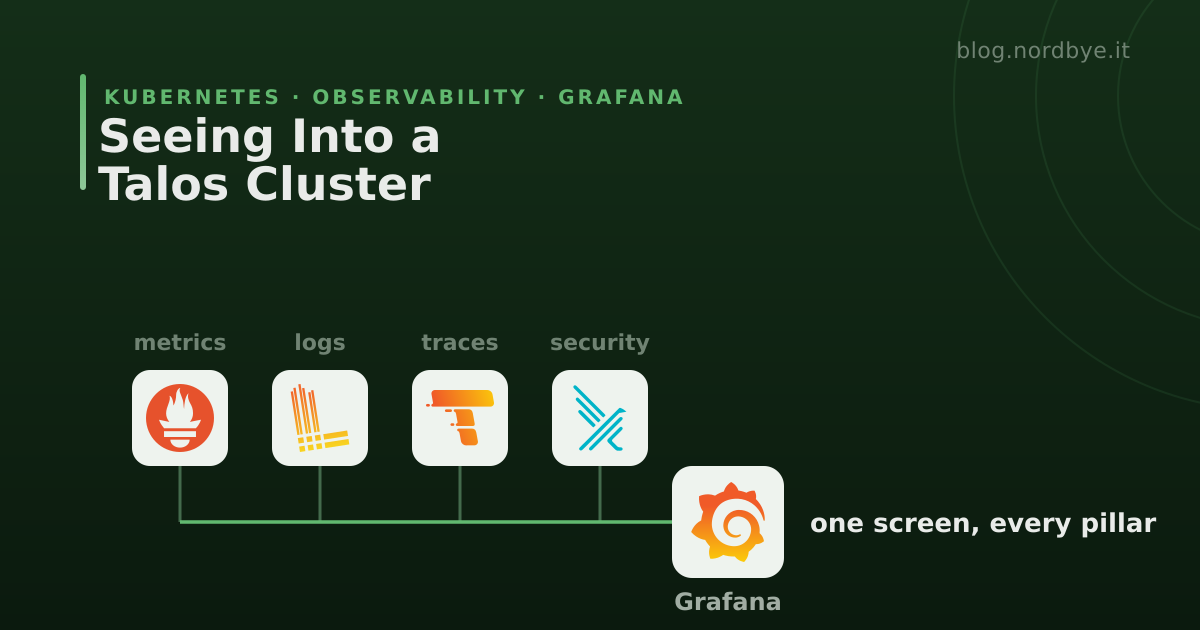
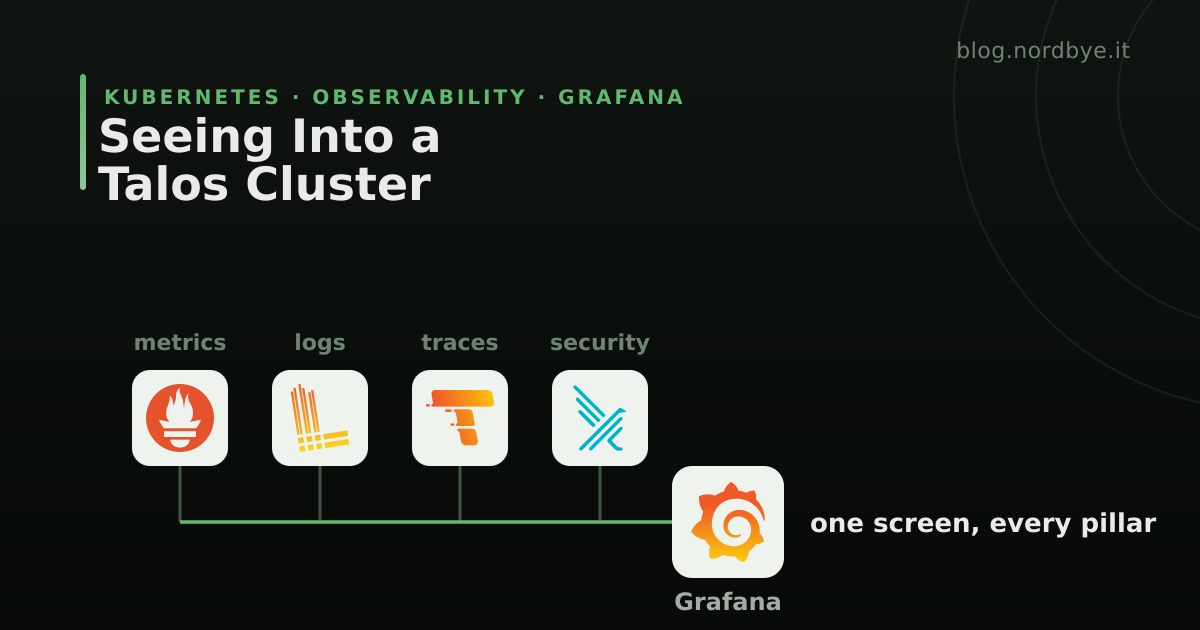
fix(blog): green accent on the site, near-black ground on the covers
The site chrome was still arctic blue. Northlight's own surfaces are
neutral, so the accent tokens in assets/css/custom.css are the whole
palette contract, and they were never moved off the old blue.

Light mode uses #347940 rather than the portfolio's #378144. Northlight
requires 4.5:1 between an accent and its own --accent-tint; #378144
measures 4.35 and #347940 measures 4.76. This is the same two-percent
adjustment, for the same reason, that the outgoing blue override made.
Dark mode uses #7cc088 at 7.81 on its tint, against the 7.77 the blue
measured, so dark reading is unchanged apart from hue.

Cover grounds move from the green field to the near-black anchor. A fully
green canvas made the covers read as a colour swatch rather than a
diagram. Green now carries type, accents and the arc motif only.

Verification: all six covers re-rendered with the librsvg container the
workflow documents, two checked visually; accent contrast computed
against the theme's own tint compositing in both modes.

Changed region(s): [[0.0, 0.0, 1.0, 0.181]]

diff --git a/blog/assets/css/custom.css b/blog/assets/css/custom.css
@@ -2,18 +2,24 @@
    so it is minified and fingerprinted with everything else and costs no extra request.
    Being last in the cascade, a rule at the same specificity wins.
 
-   One job: retune the `slate` palette to the arctic blue the portfolio at nordbye.it
-   uses, so the two sites read as one brand. The source of truth for these values is
-   portfolio/src/styles/tokens.css in this repository — `--accent` there.
+   One job: retune the `slate` palette to the eucalyptus green the portfolio at
+   nordbye.it uses, so the two sites read as one brand. The source of truth for these
+   values is portfolio/src/styles/tokens.css in this repository — `--accent` there — and
+   the full spec at nordbye.it/brand. Northlight's own surfaces are neutral (white and
+   #0b0b0e), so the accent is the only thing carrying the palette on this site.
 
-   The light tone is #1e6ad1 rather than the portfolio's exact #1f6fda. Same hue, same
+   The light tone is #347940 rather than the portfolio's exact #378144. Same hue, same
    saturation, two percent darker. Northlight measures every shipped accent against its
    own --accent-tint, which is where a featured card's eyebrow lands, and requires 4.5:1
-   there; #1f6fda measures 4.33 and #1e6ad1 measures 4.66, against slate's own 4.97. The
+   there; #378144 measures 4.35 and #347940 measures 4.76, against slate's own 4.97. The
    theme dropped a candidate palette for missing that floor by less, so matching the
    portfolio exactly here would mean shipping something it rejected. The difference is
-   not visible side by side. Dark mode takes the portfolio value unchanged — #5db7ff
-   measures 7.76 on its tint.
+   not visible side by side. This is the same adjustment, for the same reason, that the
+   outgoing arctic-blue override made.
+
+   Dark mode uses #7cc088, a lighter step of the same hue. It measures 7.81 on its tint,
+   within a whisker of the 7.77 the outgoing blue measured, so nothing about the dark
+   reading experience changes except the hue.
 
    The three tokens below are the whole palette contract: --accent is the readable tone
    (links, active TOC item, progress bar), --accent-pastel is the soft one (fills, hover
@@ -22,10 +28,10 @@
    tuned per palette in both modes and are not part of this. */
 
 html[data-palette="slate"] {
-  --accent: #1e6ad1;
-  --accent: light-dark(#1e6ad1, #5db7ff);
-  --accent-pastel: #5db7ff;
-  --accent-pastel: light-dark(#5db7ff, #3789e3);
-  --accent-tint: rgba(30, 106, 209, 0.08);
-  --accent-tint: light-dark(rgba(30, 106, 209, 0.08), rgba(93, 183, 255, 0.11));
+  --accent: #347940;
+  --accent: light-dark(#347940, #7cc088);
+  --accent-pastel: #7cc088;
+  --accent-pastel: light-dark(#7cc088, #4e8a5a);
+  --accent-tint: rgba(52, 121, 64, 0.08);
+  --accent-tint: light-dark(rgba(52, 121, 64, 0.08), rgba(124, 192, 136, 0.11));
 }
